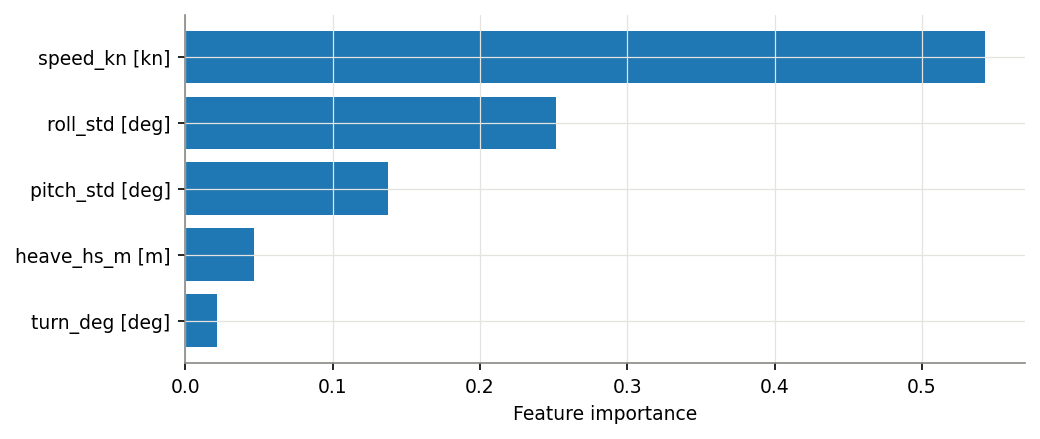
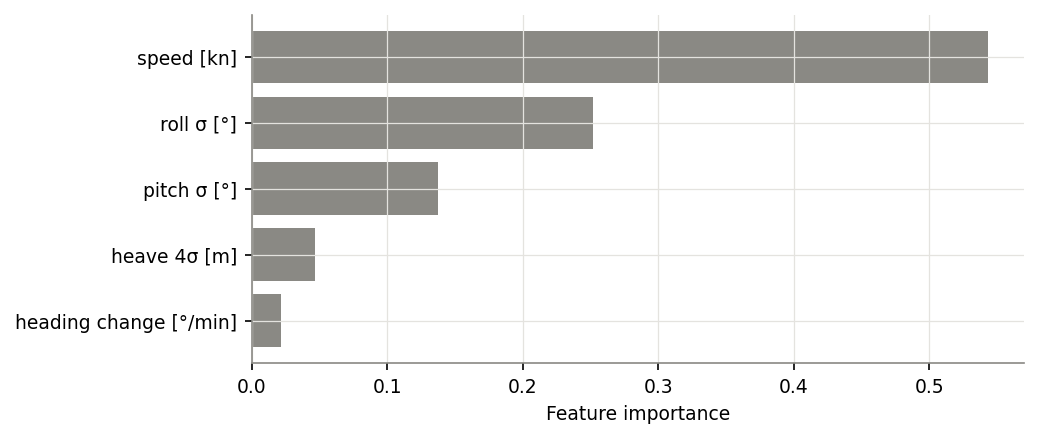
Refactor terminology to replace "correct timeline" with "reference timeline" across multiple files; remove unnecessary .DS_Store files.

diff --git a/tmr12/cluster.py b/tmr12/cluster.py
@@ -1,9 +1,9 @@
 """Unsupervised operating-state detection: Harbour, Transit or DP, found from the ship's own motion.
 
 No land or distance rules. Each 1-minute window is described by five numbers from the ship logs, and a
-k-means groups similar windows into three clusters. The correct timeline (the phases
+k-means groups similar windows into three clusters. The reference timeline (the phases
 from data.phases(): quay = Harbour, station = DP, transit) is used only afterwards, to score the result.
-For comparison, a supervised random forest (forest.py) learns the correct timeline from the same five features.
+For comparison, a supervised random forest (forest.py) learns the reference timeline from the same five features.
 """
 import matplotlib.pyplot as plt
 import numpy as np
@@ -18,10 +18,9 @@ WINDOW = '1min'      # one sample = one minute of data
 SMOOTH_MIN = 5       # a state lasts minutes: take the most common cluster over this many windows
 N_STATES = 3
 FEATURES = ['speed_kn', 'roll_std', 'pitch_std', 'heave_hs_m', 'turn_deg']
-UNITS = {'speed_kn': 'kn', 'roll_std': 'deg', 'pitch_std': 'deg', 'heave_hs_m': 'm', 'turn_deg': 'deg'}
 STATES = ['Harbour', 'DP', 'Transit']
 PHASE_STATE = {'Quay': 'Harbour', 'Station': 'DP', 'Transit': 'Transit'}   # data.phases() kind -> state name
-COLOURS = {'Harbour': '#8c8c8c', 'DP': '#1f77b4', 'Transit': '#ff7f0e'}
+COLOURS = eda.MODE_COLOURS   # same mode colours as the EDA and vis figures
 
 
 def heading_change(h):
@@ -39,7 +38,7 @@ def windows(s):
 
 
 def load_windows():
-    """Every day's 10 s rows with their correct state, cut into 1-minute windows."""
+    """Every day's 10 s rows with their reference state, cut into 1-minute windows."""
     rows = []
     for day in eda.available_days():   # days in data/processed/ (in git) or data/raw/ship/
         s = data.load_day(day)
@@ -85,27 +84,27 @@ VERSIONS = {'Clustering': 'state', 'Clustering, smoothed': 'state_smooth',
 
 
 def check(out):
-    """Score the clustering (and the random forest) against the correct timeline.
+    """Score the clustering (and the random forest) against the reference timeline.
     scores: per model version, accuracy (share of minutes right) and adjusted Rand index (1 = identical).
-    per_state: for the smoothed clustering, recall (share of the correct minutes the model found), precision (share
-    of the model's minutes that are right), F1 (the two combined) and the number of correct minutes.
-    table: correct state (rows) vs cluster (columns), in minutes."""
+    per_state: for the smoothed clustering, recall (share of the reference minutes the model found), precision (share
+    of the model's minutes that are right), F1 (the two combined) and the number of reference minutes.
+    table: reference state (rows) vs cluster (columns), in minutes."""
     known = out[out.correct != 'Unknown']
     scores = pd.DataFrame({name: {'accuracy': accuracy_score(known.correct, known[col]),
                                   'ARI': adjusted_rand_score(known.correct, known[col])}
                            for name, col in VERSIONS.items() if col in known}).T
     p, r, f, n = precision_recall_fscore_support(known.correct, known.state_smooth, labels=STATES, zero_division=0)
     per_state = pd.DataFrame({'recall': r, 'precision': p, 'F1': f, 'minutes': n}, index=STATES)
-    table = pd.crosstab(known.correct, known.state_smooth, rownames=['Correct timeline'], colnames=['Cluster'])
+    table = pd.crosstab(known.correct, known.state_smooth, rownames=['Reference timeline'], colnames=['Cluster'])
     return scores, per_state, table.reindex(index=STATES, columns=STATES, fill_value=0)
 
 
 # ---------- figures ----------
 
 def fig_timeline(out):
-    """Per day: colour strips over local time, the correct timeline on top, then the random forest (if fitted)
+    """Per day: colour strips over local time, the reference timeline on top, then the random forest (if fitted)
     and the clustering at the bottom."""
-    rows = [(c, label) for c, label in [('correct', 'Correct timeline'), ('forest_smooth', 'Random forest'),
+    rows = [(c, label) for c, label in [('correct', 'Reference timeline'), ('forest_smooth', 'Random forest'),
                                         ('state_smooth', 'Clustering')] if c in out][::-1]   # bottom row first
     days = list(out.day.unique())
     fig, axes = plt.subplots(len(days), 1, figsize=(12, 0.6 * len(rows) * len(days) + 0.4), squeeze=False)
@@ -136,7 +135,7 @@ def fig_features(out):
             patch.set_facecolor(c)
             patch.set_alpha(0.7)
         ax.set_yscale('log')
-        ax.set_title(f'{f} [{UNITS[f]}]', fontsize=10)
+        ax.set_title(eda.FEATURE_LABELS[f], fontsize=10)
     fig.suptitle('Inputs per cluster', x=0.01, ha='left')
     fig.tight_layout()
     return fig

diff --git a/app.py b/app.py
@@ -105,7 +105,7 @@ def load_buoy_blocks():
 
 @st.cache_data(show_spinner='Clustering one-minute windows...')
 def run_cluster():
-    """Step 8: every 1-minute window with its cluster, and its scores against the correct timeline."""
+    """Step 8: every 1-minute window with its cluster, and its scores against the reference timeline."""
     out, rf = forest.fit_forest(cluster.fit(cluster.load_windows()))
     return out, rf, *cluster.check(out)
 
@@ -646,12 +646,12 @@ def page_states():
          'Here the ship is not told where it is. Each minute of the log is described by five numbers from its own '
          'motion: speed, roll σ, pitch σ, heave 4σ and heading change. **K-means** groups similar '
          f'minutes into {cluster.N_STATES} states without any labels: each minute joins the nearest of '
-         f'{cluster.N_STATES} cluster centres. The **correct timeline** (the phases from '
+         f'{cluster.N_STATES} cluster centres. The **reference timeline** (the phases from '
          'step 2: quay = harbour, station = DP, transit) is used only afterwards, to score the result. '
-         'For comparison, a supervised **random forest** learns the correct timeline from the same five numbers.',
+         'For comparison, a supervised **random forest** learns the reference timeline from the same five numbers.',
          caption=day_caption(day))
     show_fig(cluster.fig_timeline(out[out.day == day]))
-    st.caption(f'Top = correct timeline, middle = random forest, bottom = clustering (both as the most common '
+    st.caption(f'Top = reference timeline, middle = random forest, bottom = clustering (both as the most common '
                f'state over {cluster.SMOOTH_MIN} min).')
 
     c = st.columns(4)
@@ -676,10 +676,10 @@ def page_states():
                    'timelines group the minutes the same way, whatever the names (1 = identical, 0 = random).')
         st.markdown('**Clustering per state** (smoothed)')
         st.dataframe(per_state.round(2))
-        st.caption('Recall = share of the correct minutes of this state that the model found. Precision = share of '
+        st.caption('Recall = share of the reference minutes of this state that the model found. Precision = share of '
                    'the minutes the model gave this state that are right. F1 = the two combined. Minutes = how many '
-                   'minutes of this state the correct timeline has.')
-        st.markdown('**Correct timeline (rows) vs clustering (columns)**, minutes')
+                   'minutes of this state the reference timeline has.')
+        st.markdown('**Reference timeline (rows) vs clustering (columns)**, minutes')
         st.dataframe(table)
         show_fig(cluster.fig_features(out))
         st.markdown('Speed is needed to separate transit from DP.\n\n'
@@ -688,7 +688,7 @@ def page_states():
         st.markdown('**The random forest** (supervised)')
         show_fig(forest.fig_importance(rf))
         st.caption(f'{forest.N_TREES} decision trees, each trained on a random sample of minutes and features, vote '
-                   f'on the state. Each day is predicted by a forest trained on the correct timeline of the other '
+                   f'on the state. Each day is predicted by a forest trained on the reference timeline of the other '
                    f'{out.day.nunique() - 1} days only, so it is always tested on a day it never saw. The bars show '
                    f'how much each input helps the forest fitted on all days; the most useful is '
                    f'{cluster.FEATURES[rf.feature_importances_.argmax()]}.')
@@ -720,7 +720,7 @@ def page_conclusion():
         f"{per_state.loc['Transit', 'recall']:.1%} of the transit minutes. The biggest miss is {n} {true} minutes "
         f"called {pred}; the random forest makes that mistake in {rf_miss} minutes.\n\n"
         '#### Limits\n'
-        '- The correct timeline is itself made by rules (speed, and the first and last stop of the day is the quay), '
+        '- The reference timeline is itself made by rules (speed, and the first and last stop of the day is the quay), '
         "not taken from the DP system's own log.\n"
         '- In calm, sheltered water, DP and harbour look the same from motion alone.\n'
         f'- Only {len(DAYS)} days from one ship.\n'

diff --git a/tmr12/forest.py b/tmr12/forest.py
@@ -1,10 +1,11 @@
-"""Supervised comparison for the clustering: a random forest learns the correct state (Harbour / DP / Transit)
+"""Supervised comparison for the clustering: a random forest learns the reference state (Harbour / DP / Transit)
 from the same five motion features as the k-means clustering in cluster.py."""
 import matplotlib.pyplot as plt
 import pandas as pd
 from sklearn.ensemble import RandomForestClassifier
 
-from tmr12.cluster import COLOURS, FEATURES, UNITS, smooth
+from tmr12 import eda
+from tmr12.cluster import FEATURES, smooth
 
 N_TREES = 200
 
@@ -29,9 +30,9 @@ def fit_forest(out):
 
 def fig_importance(forest):
     """How much each feature helps the forest separate the states (mean decrease in impurity, sums to 1)."""
-    imp = pd.Series(forest.feature_importances_, index=[f'{f} [{UNITS[f]}]' for f in FEATURES]).sort_values()
+    imp = pd.Series(forest.feature_importances_, index=[eda.FEATURE_LABELS[f] for f in FEATURES]).sort_values()
     fig, ax = plt.subplots(figsize=(7, 3))
-    ax.barh(imp.index, imp.values, color=COLOURS['DP'])
+    ax.barh(imp.index, imp.values, color=eda.GREY)
     ax.set_xlabel('Feature importance')
     fig.tight_layout()
     return fig

diff --git a/cluster.py b/cluster.py
@@ -1,7 +1,7 @@
 """Find the vessel's operating state (Harbour / DP / Transit) from its motion alone: python cluster.py
 
 Unsupervised: k-means groups 1-minute windows of ship motion into three clusters.
-The correct timeline (rule-based phases) is used only to score the result.
+The reference timeline (rule-based phases) is used only to score the result.
 For comparison, a supervised random forest is trained on it (leave one day out). Writes figures and tables to reports/cluster/.
 Ship data folder: set SHIP_DIR as in eda.py.
 """
@@ -34,7 +34,7 @@ if __name__ == '__main__':
     out = cluster.fit(w)
     out, rf = forest.fit_forest(out)
     scores, per_state, table = cluster.check(out)
-    print('Performance against the correct timeline:')
+    print('Performance against the reference timeline:')
     print(scores.round(3))
     print(per_state.round(3))
     print(table)

diff --git a/tmr12/eda.py b/tmr12/eda.py
@@ -33,7 +33,7 @@ MODE = {'Quay': 'Harbour', 'Station': 'DP', 'Transit': 'Transit'}   # data.phase
 MODE_COLOURS = {'Harbour': GREY, 'DP': BLUE, 'Transit': ORANGE}
 FEATURE_LABELS = {'speed_kn': 'speed [kn]', 'roll_std': 'roll σ [°]', 'pitch_std': 'pitch σ [°]',
                   'heave_hs_m': 'heave 4σ [m]', 'turn_deg': 'heading change [°/min]'}   # cluster.FEATURES
-BUOY_COLOURS = {'D': BLUE, 'A': ORANGE}
+BUOY_COLOURS = {'D': BLUE, 'A': AQUA}   # not ORANGE: that is the transit colour
 
 plt.rcParams.update({'figure.dpi': 110, 'savefig.dpi': 150, 'font.size': 9,
                      'axes.spines.top': False, 'axes.spines.right': False,

diff --git a/tmr12/vis.py b/tmr12/vis.py
@@ -30,7 +30,8 @@ def save(fig, name):
 
 
 def short_day(day):
-    return pd.Timestamp(day).strftime('%-d %b')
+    t = pd.Timestamp(day)
+    return f'{t.day} {t:%b}'   # not '%-d': that only works on Linux/macOS
 
 
 def fig_time_budget(w):

diff --git a/README.md b/README.md
@@ -8,12 +8,12 @@ The app (`streamlit run app.py`) tells the same story, one step per page. Each p
 
 1. **The question:** can the ship's own motion tell us whether it is in harbour, on DP or in transit, and why that matters for comparing real operations with simulations.
 2. **One day at sea:** what does the data look like? The ship sails from the quay to a few stations and back, and moves most at the stations.
-3. **Can we trust the data?** The ship logs are complete. Limits: GNSS height updates only ~10×/s, it has a noise floor of ~0.15 m (4σ), and buoys C, D and F have no wave data in November.
+3. **Can we trust the data?** The ship logs are complete. Limits: GNSS height updates only ~10×/s, it has a noise floor of ~0.1 m (4σ), and buoys C, D and F have no wave data in November.
 4. **How the ship moves:** almost still at the quay, a little in transit, most at the stations. Each state moves differently, which is what the models use.
 5. **The waves at the buoys:** small waves. Exposed buoy D had about 0.6–0.7 m, sheltered A and B about 0.2 m.
 6. **Ship vs buoy:** more waves give more heave (r ≈ 0.73), but this is tangled up with the site (D vs A) and with distance to the buoy.
 7. **Heading vs waves:** where the buoy was close (31 Oct, D), the ship rolled most with waves from the side.
-8. **Machine learning: operating state:** an unsupervised clustering of 1-minute windows (`python cluster.py`), scored against the correct timeline (the rule-based phases from step 2) and compared with a supervised decision tree. Both get most minutes right; calm DP minutes look like harbour.
+8. **Machine learning: operating state:** an unsupervised clustering of 1-minute windows (`python cluster.py`), scored against the reference timeline (the rule-based phases from step 2) and compared with a supervised random forest (leave one day out). Both get most minutes right; calm DP minutes look like harbour.
 9. **What we learned:** mostly yes, a model can label the operating state from motion alone, plus the limits and next steps.
 
 ## Run
